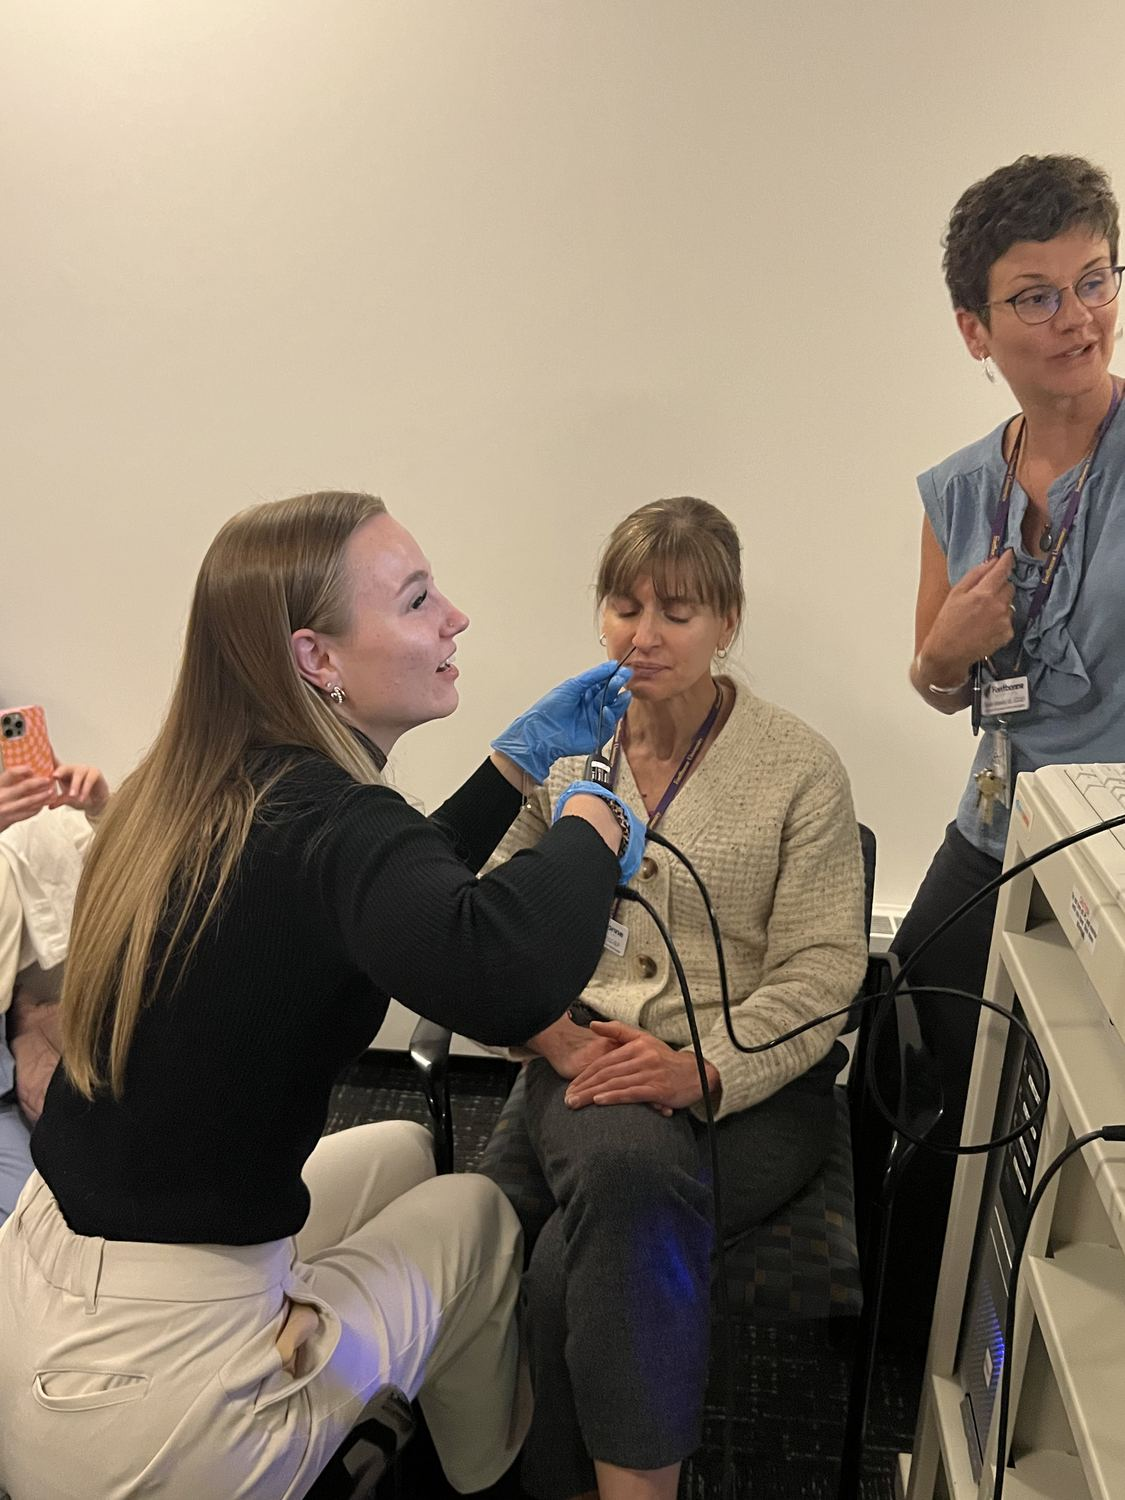
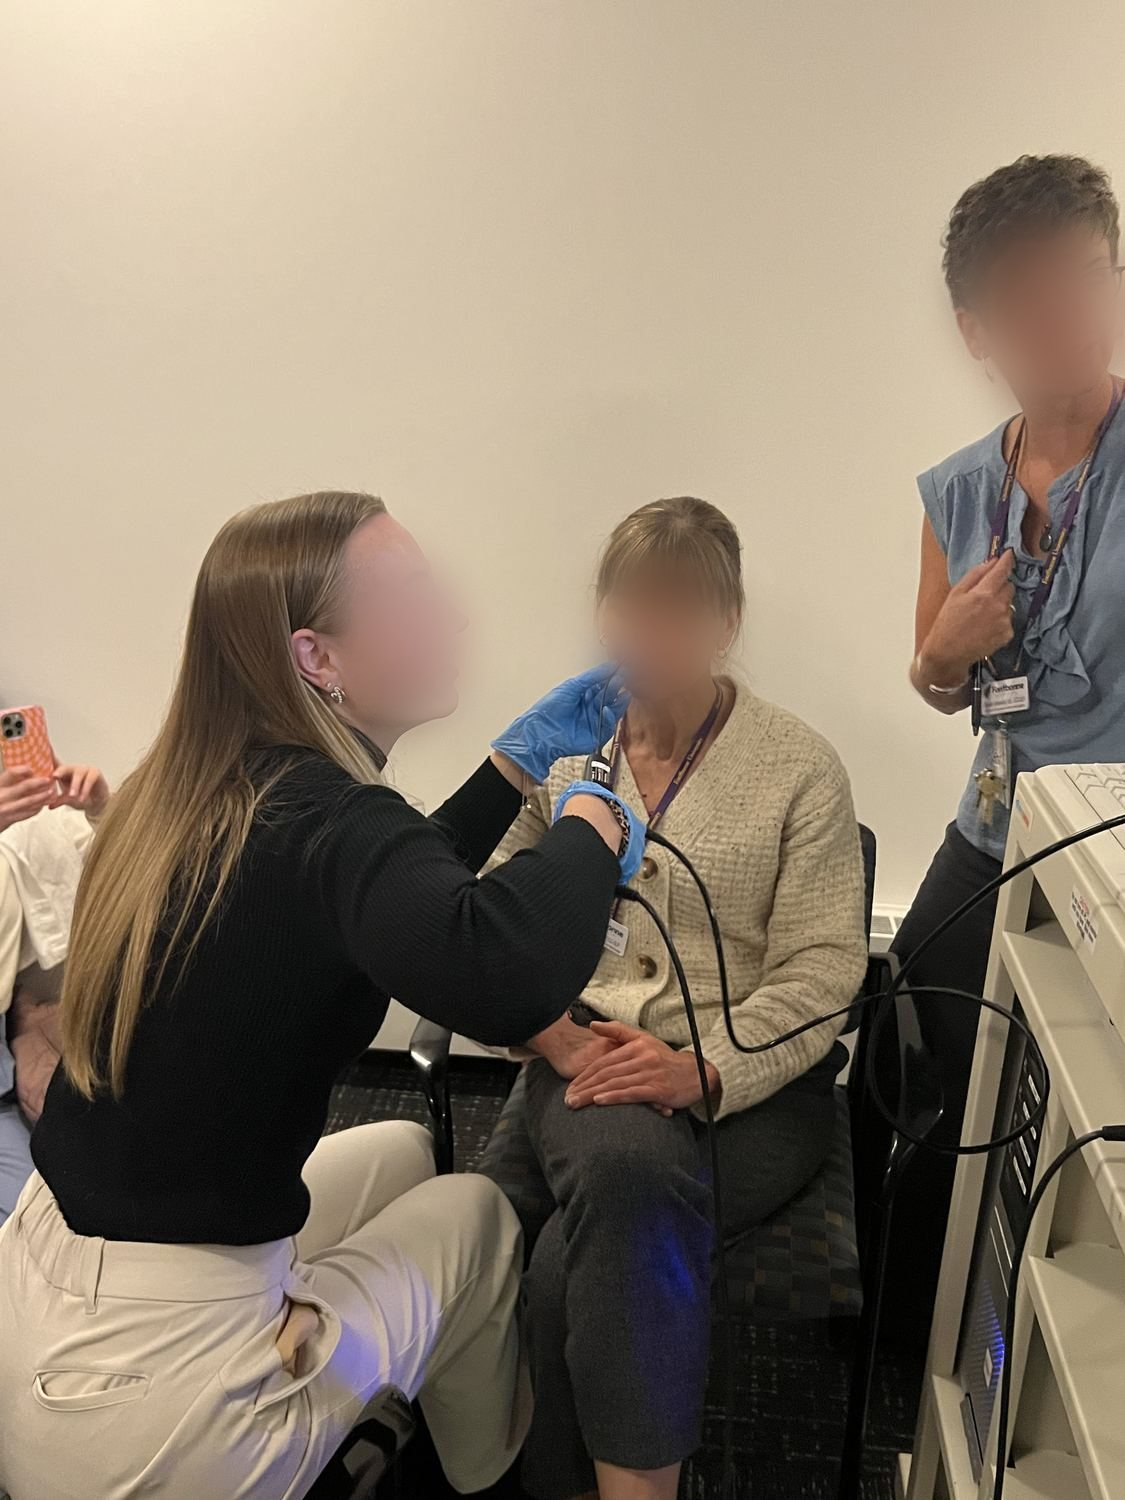
Blur bystanders' faces in six photos
Apply a light, feathered blur to every identifiable face except the
site owner's in six photos used on photos.html (two also on lab.html):
the facial NMES session, the fNIRS recording session, the study-data
review, both graduate-seminar photos, and the clinic office. Regenerate
the matching thumbnails from the blurred images, and add a version tag
to those image links so browsers fetch the new files instead of cached
unblurred copies.

Claude-Session: https://claude.ai/code/session_01XgYhYMAGTwh7dGBpdjkAFg

Changed region(s): [[0.84, 0.1227, 1.0, 0.276], [0.5289, 0.368, 0.6533, 0.4907], [0.3422, 0.368, 0.4356, 0.4907]]

diff --git a/photos.html b/photos.html
@@ -9,7 +9,7 @@
 <meta property="og:type" content="article">
 <meta property="og:title" content="Lab/Academic Photos | Dr. Mohammed F. Safi">
 <meta property="og:description" content="Photographs from the research laboratory, graduate teaching, and academic conferences of Dr. Mohammed F. Safi.">
-<meta property="og:image" content="https://slpmfsafi.github.io/photos/nmes-lab-session.jpg">
+<meta property="og:image" content="https://slpmfsafi.github.io/photos/nmes-lab-session.jpg?v=blur1">
 <meta property="og:url" content="https://slpmfsafi.github.io/photos.html">
 <meta name="twitter:card" content="summary">
 <link rel="icon" href="assets/favicon.svg" type="image/svg+xml">
@@ -68,20 +68,20 @@
 
     <div class="gallery">
       <figure class="shot">
-        <a href="photos/nmes-lab-session.jpg">
-          <img src="photos/nmes-lab-session-thumb.jpg" width="760" height="570" loading="lazy" alt="A researcher wearing a surgical glove positions a stimulation electrode against a seated volunteer's cheek while a colleague observes beside the equipment.">
+        <a href="photos/nmes-lab-session.jpg?v=blur1">
+          <img src="photos/nmes-lab-session-thumb.jpg?v=blur1" width="760" height="570" loading="lazy" alt="A researcher wearing a surgical glove positions a stimulation electrode against a seated volunteer's cheek while a colleague observes beside the equipment.">
         </a>
         <figcaption>Applying facial neuromuscular electrical stimulation during a research session.</figcaption>
       </figure>
       <figure class="shot">
-        <a href="photos/team-meeting.jpg">
-          <img src="photos/team-meeting-thumb.jpg" width="760" height="570" loading="lazy" alt="A volunteer wearing a head cap fitted with optical sensors sits beside a conference table while four colleagues observe and a whiteboard diagram is visible behind them.">
+        <a href="photos/team-meeting.jpg?v=blur1">
+          <img src="photos/team-meeting-thumb.jpg?v=blur1" width="760" height="570" loading="lazy" alt="A volunteer wearing a head cap fitted with optical sensors sits beside a conference table while four colleagues observe and a whiteboard diagram is visible behind them.">
         </a>
         <figcaption>A functional near-infrared spectroscopy (fNIRS) recording session, with the research team observing.</figcaption>
       </figure>
       <figure class="shot">
-        <a href="photos/research-lab-demonstration.jpg">
-          <img src="photos/research-lab-demonstration-thumb.jpg" width="760" height="570" loading="lazy" alt="Four colleagues stand behind two seated researchers working at laptops in a meeting room.">
+        <a href="photos/research-lab-demonstration.jpg?v=blur1">
+          <img src="photos/research-lab-demonstration-thumb.jpg?v=blur1" width="760" height="570" loading="lazy" alt="Four colleagues stand behind two seated researchers working at laptops in a meeting room.">
         </a>
         <figcaption>Reviewing study data with colleagues during a laboratory session.</figcaption>
       </figure>
@@ -110,14 +110,14 @@
         <figcaption>The same panel session, seen from the auditorium floor.</figcaption>
       </figure>
       <figure class="shot">
-        <a href="photos/seminar-classroom.jpg">
-          <img src="photos/seminar-classroom-thumb.jpg" width="760" height="570" loading="lazy" alt="Students seated in a semicircle in a university classroom, facing a projected slide.">
+        <a href="photos/seminar-classroom.jpg?v=blur1">
+          <img src="photos/seminar-classroom-thumb.jpg?v=blur1" width="760" height="570" loading="lazy" alt="Students seated in a semicircle in a university classroom, facing a projected slide.">
         </a>
         <figcaption>A graduate seminar in session.</figcaption>
       </figure>
       <figure class="shot">
-        <a href="photos/seminar-discussion.jpg">
-          <img src="photos/seminar-discussion-thumb.jpg" width="760" height="570" loading="lazy" alt="The same classroom photographed from the opposite side, with a participant in the foreground speaking and gesturing.">
+        <a href="photos/seminar-discussion.jpg?v=blur1">
+          <img src="photos/seminar-discussion-thumb.jpg?v=blur1" width="760" height="570" loading="lazy" alt="The same classroom photographed from the opposite side, with a participant in the foreground speaking and gesturing.">
         </a>
         <figcaption>Discussion during the same graduate seminar.</figcaption>
       </figure>
@@ -134,8 +134,8 @@
         <figcaption>Colleagues and clinical staff gathered for a presentation, with a commemorative plaque.</figcaption>
       </figure>
       <figure class="shot">
-        <a href="photos/clinic-visit.jpg">
-          <img src="photos/clinic-visit-thumb.jpg" width="760" height="570" loading="lazy" alt="A man in a light blue shirt photographed in the foreground of a clinic office, with a seated colleague at a desk behind him.">
+        <a href="photos/clinic-visit.jpg?v=blur1">
+          <img src="photos/clinic-visit-thumb.jpg?v=blur1" width="760" height="570" loading="lazy" alt="A man in a light blue shirt photographed in the foreground of a clinic office, with a seated colleague at a desk behind him.">
         </a>
         <figcaption>A university clinic office.</figcaption>
       </figure>

diff --git a/lab.html b/lab.html
@@ -110,14 +110,14 @@
     <h2 id="photos">In the lab</h2>
     <div class="gallery">
       <figure class="shot">
-        <a href="photos/team-meeting.jpg">
-          <img src="photos/team-meeting-thumb.jpg" width="570" height="760" loading="lazy" alt="A volunteer wearing a head cap fitted with optical sensors sits beside a conference table while four colleagues observe and a whiteboard diagram is visible behind them.">
+        <a href="photos/team-meeting.jpg?v=blur1">
+          <img src="photos/team-meeting-thumb.jpg?v=blur1" width="570" height="760" loading="lazy" alt="A volunteer wearing a head cap fitted with optical sensors sits beside a conference table while four colleagues observe and a whiteboard diagram is visible behind them.">
         </a>
         <figcaption>An fNIRS recording session: the optode cap in place, the research team watching the live signal.</figcaption>
       </figure>
       <figure class="shot">
-        <a href="photos/research-lab-demonstration.jpg">
-          <img src="photos/research-lab-demonstration-thumb.jpg" width="760" height="570" loading="lazy" alt="Four colleagues stand behind two seated researchers working at laptops in a meeting room.">
+        <a href="photos/research-lab-demonstration.jpg?v=blur1">
+          <img src="photos/research-lab-demonstration-thumb.jpg?v=blur1" width="760" height="570" loading="lazy" alt="Four colleagues stand behind two seated researchers working at laptops in a meeting room.">
         </a>
         <figcaption>Reviewing recordings with the team. Students worked in the lab as paid research assistants, with their own workstations and training on the equipment.</figcaption>
       </figure>
